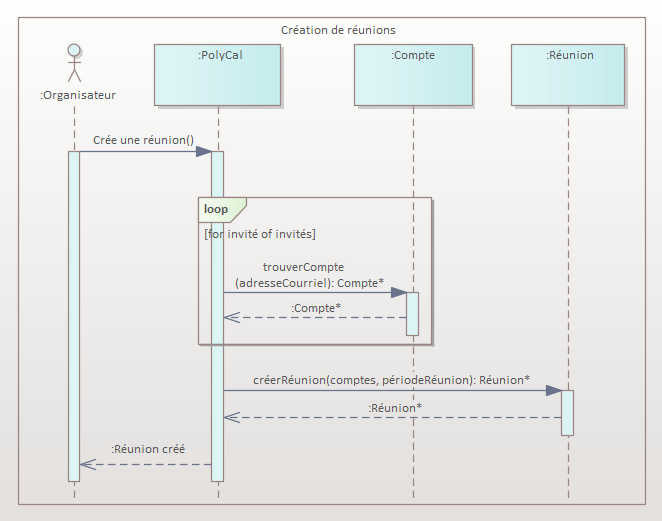
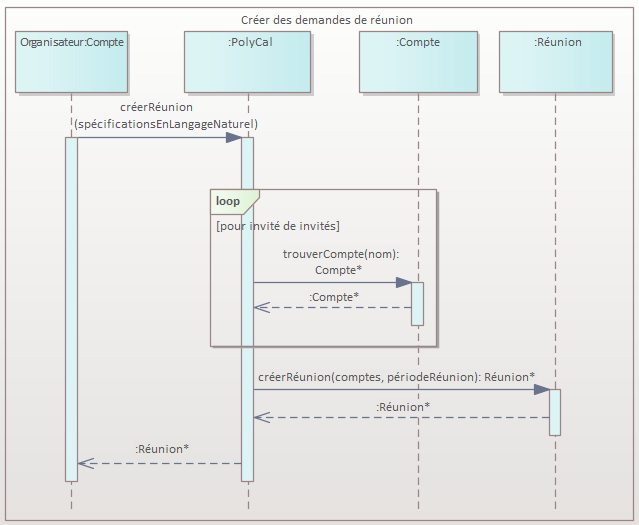
mise à jour des images et de la page d'interaction

Changed region(s): [[0.0, 0.0307, 1.0, 1.0]]

diff --git a/_includes/components/sidebar.html b/_includes/components/sidebar.html
@@ -65,7 +65,7 @@
     {{ nav_footer_custom }}
   {% else %}
     <footer class="site-footer">
-      Réalisé par Achille Saint-Hillier, Justin Lachapelle et Michel Lominy.
+      Créé par Achille Saint-Hillier, Justin Lachapelle et Michel Lominy, mis à jour par Amélie Simard et Eugenia Carcea.
     </footer>
   {% endif %}
 </div>

diff --git a/polycal.md b/polycal.md
@@ -1,7 +1,7 @@
 ---
 layout: page
 title: PolyCal (cas d'étude)
-permalink: /polyauto/
+permalink: /polycal/
 nav_order: 2
 has_children: false
 has_toc: false
@@ -17,26 +17,16 @@ L’objectif général de PolyCal est de faciliter l’organisation de réunions
 mettant à contribution les possibilités offertes par l’intelligence artificielle.
 Les principales fonctionnalités offertes par PolyCal seront comme suit : 
 1. **Création de demandes de réunion** : PolyCal permettra à un organisateur de créer 
-des demandes de réunion et de spécifier, en langage naturel, la période 
-approximative de tenue de la réunion, les personnes invitées à y participer, ainsi 
-que la présence obligatoire ou non de chacune. 
-2. **Qualification des plages** : Au moyen d’un algorithme d’apprentissage automatique, 
-PolyCal proposera un ensemble de plages possibles pour une réunion, puis 
-calculera automatiquement pour chaque plage et pour chaque personne un « fit 
-score » sur une échelle de 1 à 5.  Ce score sera basé sur les disponibilités 
-spécifiques, mais aussi les contraintes et préférences générales de chaque 
-personne. 
-3. **Gestion des comptes utilisateurs** : Toute personne possédant une adresse courriel 
-pourra créer un compte utilisateur, lequel sera requis pour utiliser PolyCal.  Chaque 
+des demandes de réunion et de spécifier la période de la réunion, les personnes invitées à y participer.
+2. **Création d'un compte utilisateur** : Toute personne possédant une adresse courriel 
+pourra créer un compte utilisateur, lequel sera requis pour utiliser PolyCal. Chaque 
 utilisateur pourra, à sa guise, se connecter à son compte utilisateur et se 
 déconnecter. Chaque compte utilisateur sera associé à un dossier qui contiendra : 
 a. Le nom complet, l’adresse courriel et le numéro de téléphone cellulaire de 
 la personne; 
-b. Une liste de contraintes et préférences générales affectant la disponibilité 
-de cet utilisateur, sous forme de règles en langage naturel (par exemple : 
-« jamais disponible avant 8h30 », « disponible si nécessaire seulement entre 
-8h30 et 9h30 », « préférence pour le mercredi à 15h30 », etc.); 
-4. **Participation à la réunion** : L'organisateur et les participants doivent pouvoir 
+b. Des contraintes et préférences générales affectant la disponibilité 
+de cet utilisateur.
+3. **Participation à la réunion** : L'organisateur et les participants doivent pouvoir 
 échanger à l'oral et par messages. Ils ont l'option d'ouvrir leur caméra et de 
 partager des fichiers.
 

diff --git a/diagrammes-de-contexte.md b/diagrammes-de-contexte.md
@@ -23,13 +23,17 @@ d’utilisation primaires d’un système sans aller dans les détails.
 
 ## Comment savoir si un cas d'utilisation est primaire ? 
 
-Les **tests de pertinence** servent à identifier les cas primaires.
+On considère **importants** les cas d’utilisation qui:
+1. Ont un **impact important sur l’architecture du système**, par exemple parce qu’ils introduisent beaucoup de concepts ou classes, ou exigent de la persistance.
+2. Contiennent beaucoup **d’information sur la conception** sans nécessairement nécessiter beaucoup d’effort.
+3. Contiennent des fonctions **risquées, complexes ou urgentes**. 
+4. Impliquent des **efforts** importants de **recherche** ou l’utilisation de **nouvelles technologies**. 
+5. Représentent **l’activité commerciale principale**. 
+6. Impliquent directement des **revenus supplémentaires** ou des **réductions de coûts**.
 
-- Le **test du patron** : mon patron sera-t-il satisfait de moi si je passe ma journée à effectuer ce cas d’utilisation ?
-- Le **test du processus d’affaire élémentaire** : un processus d’affaire élémentaire est une tâche accomplie par une personne à un endroit et un moment donnés, en réponse à un évènement d’affaire, qui ajoute une quantité mesurable de valeur et laisse les données dans un état consistant.
-- Le **test de la dimension** : un cas d’utilisation est extrêmement rarement constitué d’une seule action ou étape. Un cas d’utilisation comprend typiquement plusieurs étapes, et dans un format étendu nécessite souvent de 3 à 10 pages de texte afin de le décrire.
+Dans un **diagramme de contexte**, chaque cas est représenté par un oval contenant son nom et son numéro. **Le nom commence par un verbe.**
 
-Dans un **diagramme de cas d'utilisation**, chaque cas est représenté par un oval contenant son nom et son numéro. **Le nom commence par un verbe.**
+Voici un exemple d'un **diagramme de contexte** basé sur le cas d'étude [PolyCal](../polycal/).
 
 ![Diagramme de contexte](/assets/images/diagramme_contexte.png)
 

diff --git a/polyauto.md b/polyauto.md
@@ -41,10 +41,22 @@ Pour faciliter l'utilisation de **PolyAuto**, la facturation est effectuée auto
 Tout au long de ce guide vous sont fournis des exemples basés sur le cas **PolyAuto**. Il est toutefois important de noter que certains de ces exemples ne présentent **qu'une sous-partie** du système.
 
 - [Diagramme de classes](../diagrammes-de-classes/#exemple) (Réservation de véhicules)
+
+![](/out/plant_uml/exempleDiagClasse/exempleDiagClasse.svg)
+
 - [Diagramme de paquetages](../diagrammes-de-paquetages/#exemple) (Système complet)
+
+![](/out/plant_uml/exempleDiagPaquet/exempleDiagPaquet.svg)
+
 - [Diagramme de composantes](../diagrammes-de-composantes/#exemple) (Réservation de véhicules)
 - [Diagramme de déploiement](../diagrammes-de-deploiement/#exemple) (Système complet)
 - [Diagramme de cas d'utilisation](../diagrammes-de-cas-dutilisation/#exemple) (Système complet, vue générale)
+
+![](/out/plant_uml/useCaseGlobalExample/useCaseGlobalExample.svg)
+
 - [Diagramme d'activités](../diagrammes-d-activites/#exemple) (Validation d'une réservation)
 - [Diagramme d'interaction](../diagrammes-d-interaction/#exemple) (Réservation d'un véhicule)
+
+![](/out/plant_uml/custom/interactionGlobalExample.svg)
+
 - [Diagramme d'états](../diagrammes-etats/#exemple) (Disponibilité des véhicules)

diff --git a/diagrammes-de-cas-dutilisation.md b/diagrammes-de-cas-dutilisation.md
@@ -49,11 +49,8 @@ Comme dans le diagramme de contexte, les **frontières du système** des cas d'u
 
 ## Exemple
 
+Voici des exemples d'un **diagramme de cas d'utilisation** basé sur le cas d'étude [PolyCal](../polycal/).  
+
 ![Cas 1](/assets/images/cu1.png)
 
 ![Cas 2](/assets/images/cu2.png)
-
-Voici un exemple complet d'un **diagramme de cas d'utilisation** basé sur le cas d'étude [PolyAuto](../polyauto/).  
-Le cas d'utilisation choisis représente la réservation d'un véhicule par l'utilisateur.
-
-![](/out/plant_uml/useCaseGlobalExample/useCaseGlobalExample.svg)

diff --git a/diagrammes-de-paquetage.md b/diagrammes-de-paquetage.md
@@ -61,8 +61,6 @@ Vous pouvez trouver plus de détails sur ce sujet dans la section **3.4. Merging
 
 ## Exemple
 
+Voici un exemple d'un **diagramme de paquetages** basé sur le cas d'étude [PolyCal](../polycal/).
+
 ![Diagramme de paquetages](/assets/images/paquetages.png)
-
-Voici un exemple complet d'un **diagramme de paquetages** basé sur le cas d'étude [PolyAuto](../polyauto/).
-
-![](/out/plant_uml/exempleDiagPaquet/exempleDiagPaquet.svg)

diff --git a/diagrammes-d-interaction.md b/diagrammes-d-interaction.md
@@ -83,8 +83,5 @@ Un opérateur d'interaction est un élément utilisé dans les diagrammes de sé
 
 ## Exemple
 
+Voici un exemple d'un **diagramme d'interaction** basé sur le cas d'étude [PolyCal](../polycal/).
 ![Diagramme d'interaction](/assets/images/interaction.png)
-
-Voici un exemple d'un **diagramme d'interaction** basé sur le cas d'étude [PolyAuto](../polyauto/).
-
-![](/out/plant_uml/custom/interactionGlobalExample.svg)

diff --git a/diagrammes-de-classes.md b/diagrammes-de-classes.md
@@ -112,8 +112,6 @@ En UML, on peut les représenter de cette manière :
 
 ## Exemple
 
+Voici un exemple d'un **diagramme de classes** basé sur le cas d'étude [PolyCal](../polycal/).
+
 ![Diagramme de classes](/assets/images/classes.png)
-
-Voici un exemple complet d'un **diagramme de classes** basé sur le cas d'étude [PolyAuto](../polyauto/).
-
-![](/out/plant_uml/exempleDiagClasse/exempleDiagClasse.svg)
